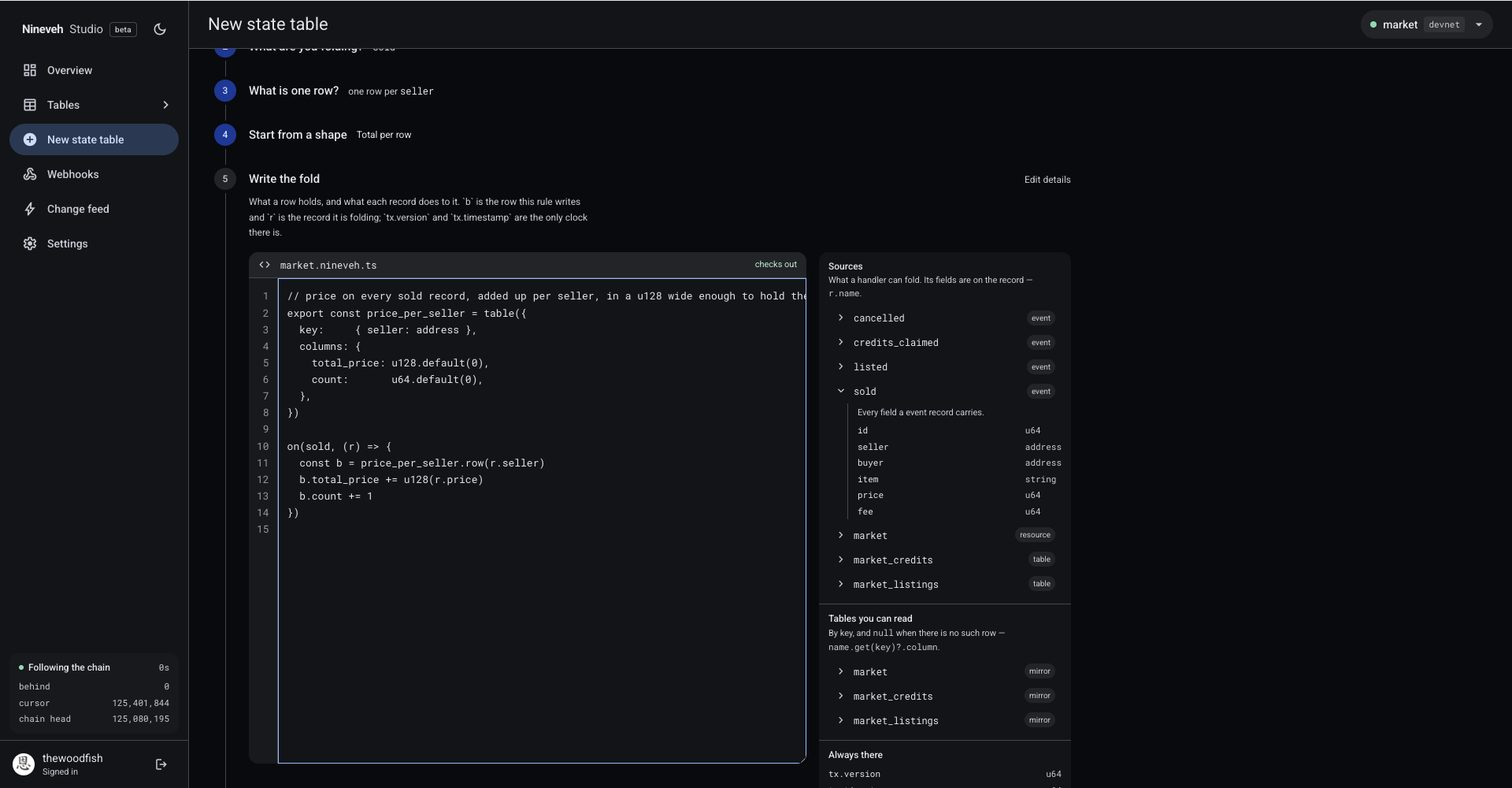
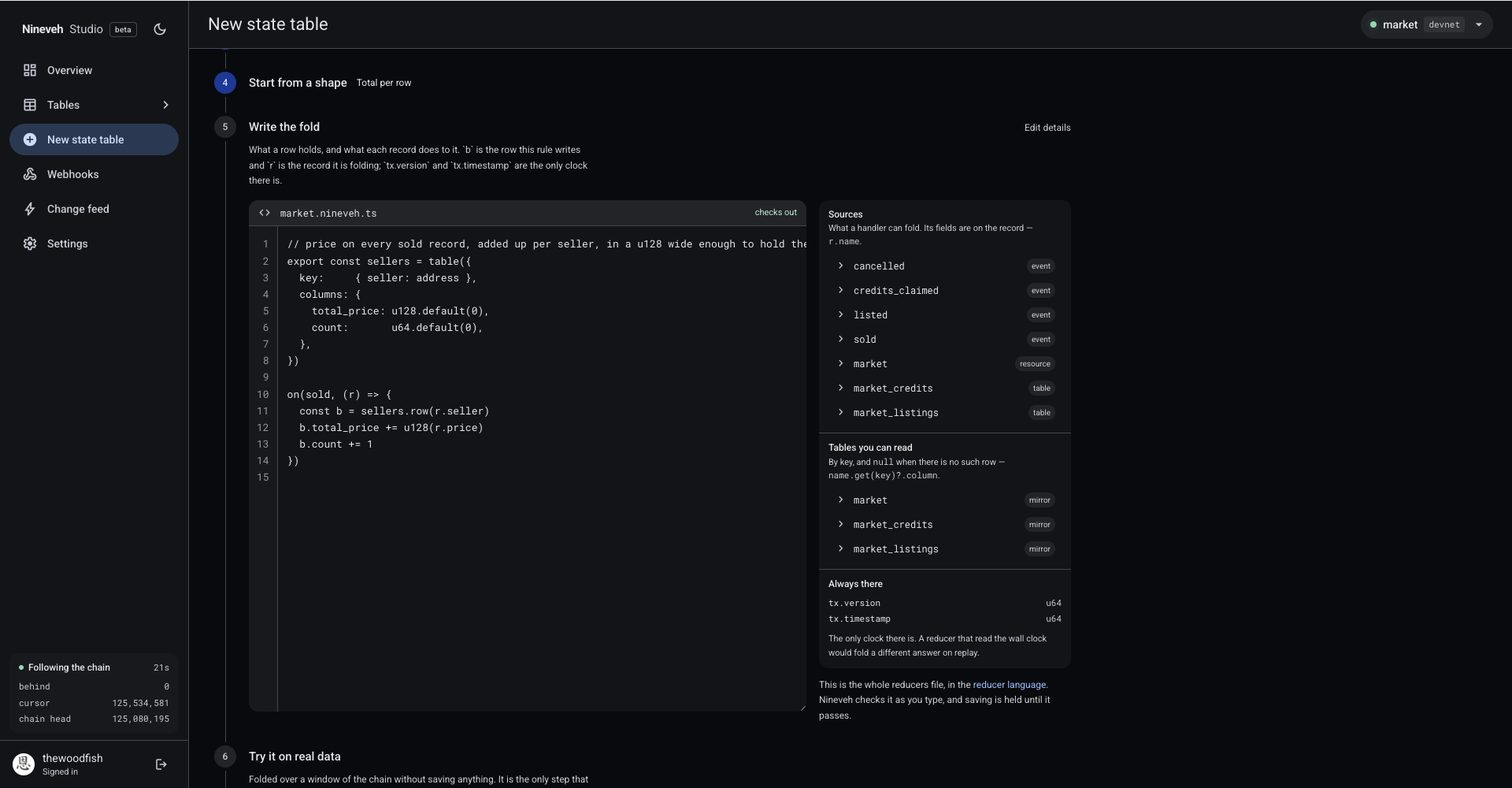
docs: §6's pictures are the section it describes now
Both retaken against the market, with the table named `sellers` at
question 1 as the section now tells you to:

- the editor shot is what Studio writes from the four answers —
  `export const sellers` with `total_price` and `count`, the names the
  fold chose;
- the preview shot is the same file after the four-line edit, with its
  `// was total_price` and `// was count` still beside the columns, and
  the rows it folds underneath. The key column leads and carries its
  tint, which is the last screenshot's bug fixed and visible.

The caption counted the rows in the picture — "two sellers" — which made
it wrong the moment a different window was folded. It describes what the
step shows instead, and the paragraph asks whether the revenue against a
seller is what that seller should have made, which is the question the
step exists to let you ask.

diff --git a/docs/first-backend.md b/docs/first-backend.md
@@ -348,15 +348,15 @@ Before you save it, run it. **Try it on real data** folds your rules over a wind
 the chain and shows you the rows they make, without building anything or writing
 anything down:
 
-![Studio folding the reducer over recent transactions: two seller rows, their revenue and their sale counts, and the button that builds the table](images/state-table-preview.jpg "A rule that compiles is not a rule that is right. Thirty thousand transactions, two sellers, and the numbers either look like your market or they don't.")
+![Studio folding the edited reducer over recent transactions: the rows it makes, keyed by seller, and the button that builds the table](images/state-table-preview.jpg "A rule that compiles is not a rule that is right. Thirty thousand transactions folded, and the numbers either look like your market or they don't. The key column leads, because the key is what a row is.")
 
 This is the step that tells you the rules are *right* rather than merely legal. A
 reducer that compiles can still add up the wrong field, key the wrong column, or fold a
 fee the wrong way round, and nothing downstream would complain — the rows would simply
-be wrong, quietly, for as long as the project ran. Here they are in front of you,
-against transactions the contract really produced, before a schema exists. Two sellers,
-their revenue, their sale counts. If those numbers aren't what your market looks like,
-the rule is wrong, and it costs nothing to find out now.
+be wrong, quietly, for as long as the project ran. Here the rows are in front of you,
+folded from transactions the contract really produced, before a schema exists. If the
+revenue against a seller isn't what you'd expect that seller to have made, the rule is
+wrong, and it costs nothing to find out now.
 
 Then **Create table**. Nineveh builds it from the records it already has, without
 re-reading the chain, and the tables you already had answer reads throughout, frozen
